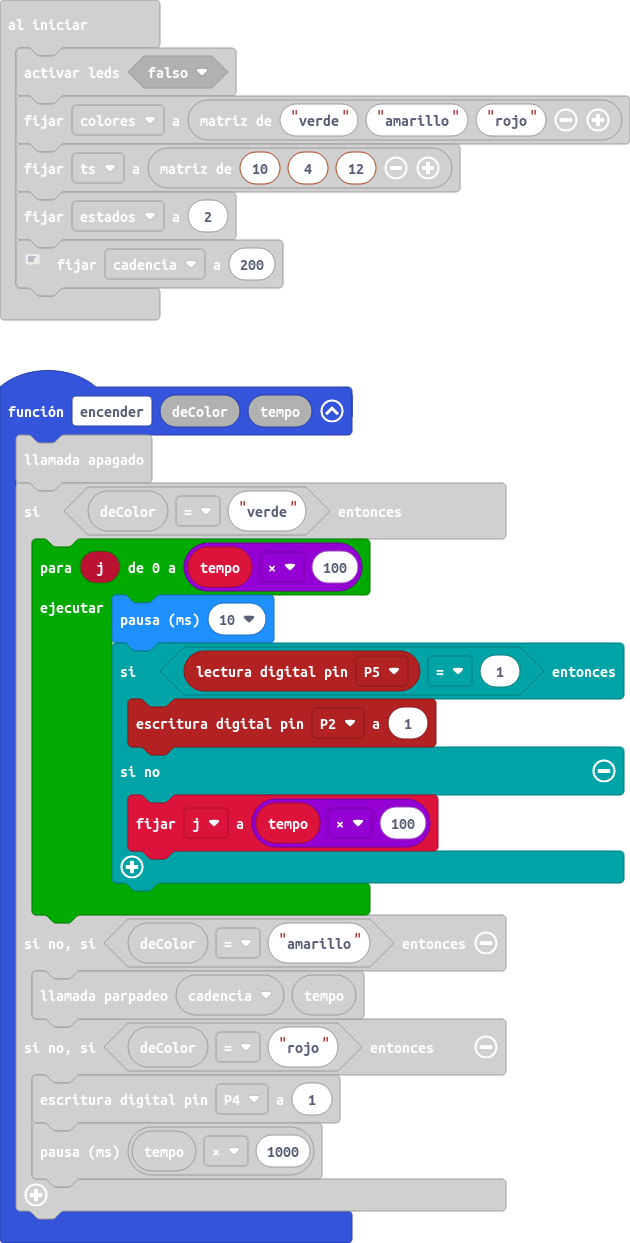
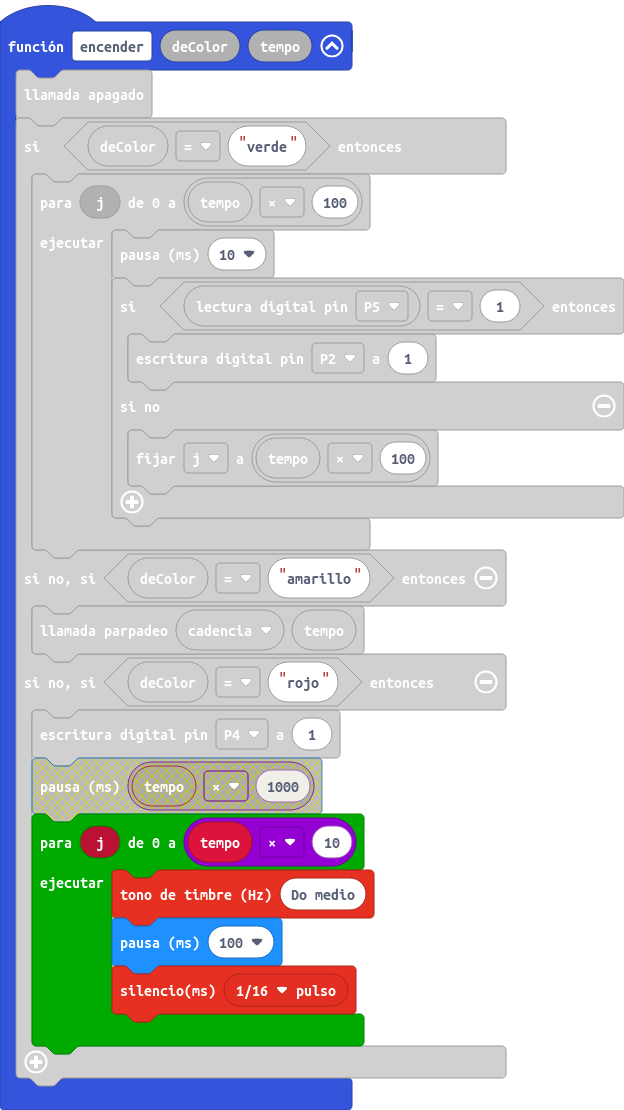
Completado

diff --git a/main.ts b/main.ts
@@ -19,7 +19,11 @@ function encender (deColor: string, tempo: number) {
         parpadeo(cadencia, tempo)
     } else if (deColor == "rojo") {
         pins.digitalWritePin(DigitalPin.P4, 1)
-        basic.pause(tempo * 1000)
+        for (let j = 0; j <= tempo * 10; j++) {
+            music.ringTone(262)
+            basic.pause(100)
+            music.rest(music.beat(BeatFraction.Sixteenth))
+        }
     }
 }
 function apagado () {
